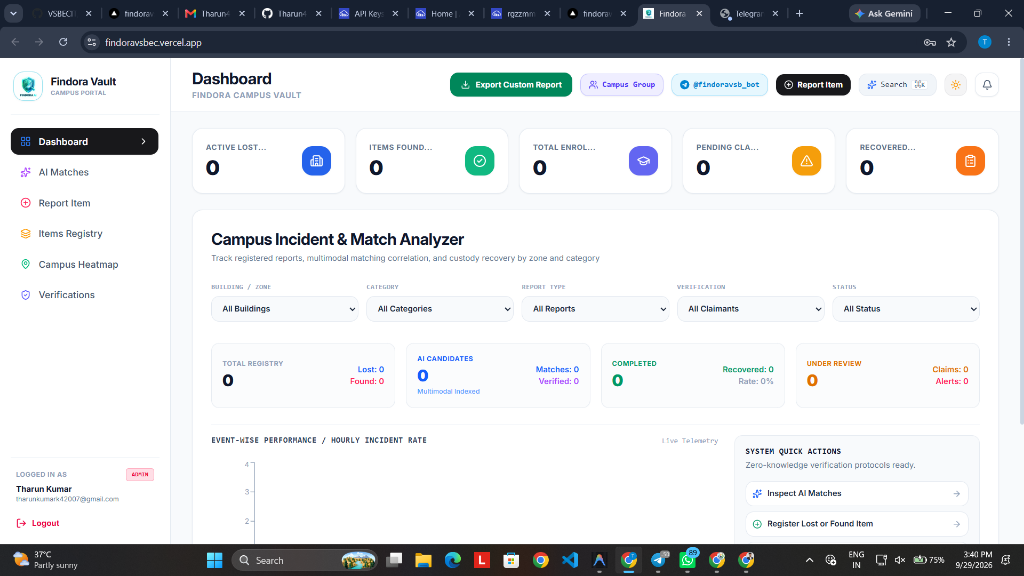
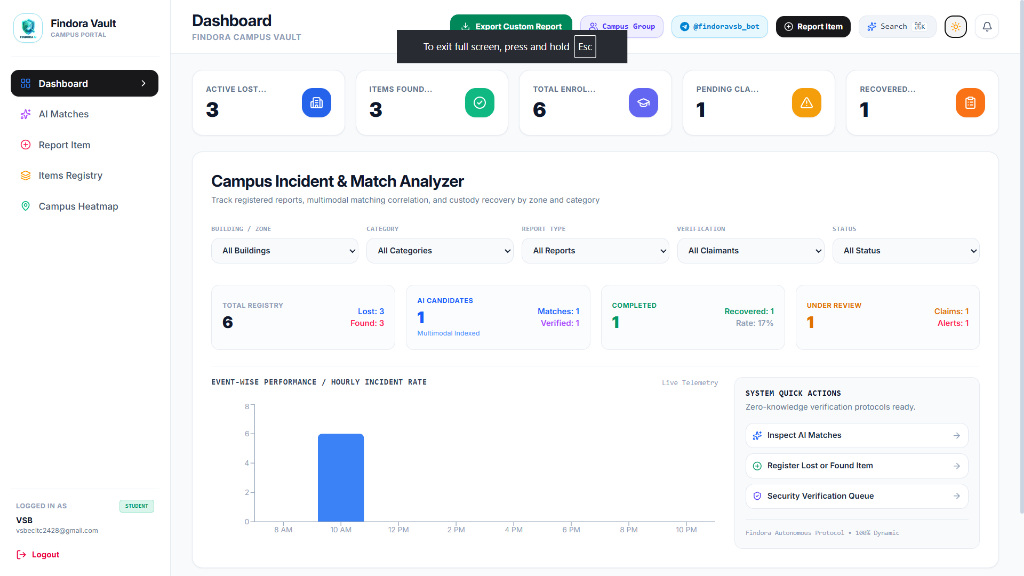
feat: update dashboard screenshot with live non-zero telemetry; fix: password_resets table and async reset flow

diff --git a/backend/routes/auth.js b/backend/routes/auth.js
@@ -204,7 +204,21 @@ router.post('/forgot-password', async (req, res) => {
     }
 
     const normalizedEmail = email.trim().toLowerCase();
-    const user = db.prepare('SELECT id, email, name FROM users WHERE LOWER(email) = ?').get(normalizedEmail);
+    let user = null;
+
+    if (db.pool) {
+      try {
+        const uRes = await db.pool.query('SELECT id, email, name FROM users WHERE LOWER(email) = $1', [normalizedEmail]);
+        if (uRes.rows && uRes.rows.length > 0) user = uRes.rows[0];
+      } catch (e) {}
+    }
+
+    if (!user) {
+      try {
+        user = db.prepare('SELECT id, email, name FROM users WHERE LOWER(email) = ?').get(normalizedEmail);
+      } catch (e) {}
+    }
+
     if (!user) {
       return res.status(404).json({ error: `No registered account found for ${normalizedEmail}. Please check spelling or create an account.` });
     }
@@ -212,12 +226,39 @@ router.post('/forgot-password', async (req, res) => {
     // Generate random 6-digit OTP code
     const otpCode = Math.floor(100000 + Math.random() * 900000).toString();
     const resetId = `rst_${Date.now()}`;
+    const expiresAt = new Date(Date.now() + 15 * 60 * 1000);
 
-    // Store in password_resets with 15-minute expiration
-    db.prepare(`
-      INSERT INTO password_resets (id, email, token, expires_at, used)
-      VALUES (?, ?, ?, datetime('now', '+15 minutes'), 0)
-    `).run(resetId, normalizedEmail, otpCode);
+    // Ensure table exists in Supabase and local DB
+    if (db.pool) {
+      try {
+        await db.pool.query(`
+          CREATE TABLE IF NOT EXISTS password_resets (
+            id TEXT PRIMARY KEY, email TEXT NOT NULL, token TEXT NOT NULL,
+            expires_at TIMESTAMP WITH TIME ZONE NOT NULL, used INTEGER DEFAULT 0,
+            created_at TIMESTAMP WITH TIME ZONE DEFAULT CURRENT_TIMESTAMP
+          )
+        `);
+        await db.pool.query(
+          'INSERT INTO password_resets (id, email, token, expires_at, used) VALUES ($1, $2, $3, $4, 0)',
+          [resetId, normalizedEmail, otpCode, expiresAt]
+        );
+      } catch (e) {
+        console.warn('[SUPABASE PASSWORD RESET ERROR]:', e.message);
+      }
+    }
+
+    try {
+      db.prepare(`
+        CREATE TABLE IF NOT EXISTS password_resets (
+          id TEXT PRIMARY KEY, email TEXT NOT NULL, token TEXT NOT NULL,
+          expires_at DATETIME NOT NULL, used INTEGER DEFAULT 0, created_at DATETIME DEFAULT CURRENT_TIMESTAMP
+        )
+      `).run();
+      db.prepare(`
+        INSERT INTO password_resets (id, email, token, expires_at, used)
+        VALUES (?, ?, ?, datetime('now', '+15 minutes'), 0)
+      `).run(resetId, normalizedEmail, otpCode);
+    } catch (e) {}
 
     console.log('\n======================================================');
     console.log(`🔐 [BREVO OTP GENERATED] For Account: ${normalizedEmail}`);
@@ -237,7 +278,7 @@ router.post('/forgot-password', async (req, res) => {
 });
 
 // 5. Reset Password using OTP code
-router.post('/reset-password', (req, res) => {
+router.post('/reset-password', async (req, res) => {
   try {
     const { email, code, newPassword } = req.body;
     if (!email || !code || !newPassword) {
@@ -249,22 +290,47 @@ router.post('/reset-password', (req, res) => {
     }
 
     const normalizedEmail = email.trim().toLowerCase();
-    const resetRecord = db.prepare(`
-      SELECT * FROM password_resets 
-      WHERE LOWER(email) = ? AND token = ? AND used = 0 AND expires_at > CURRENT_TIMESTAMP
-      ORDER BY created_at DESC LIMIT 1
-    `).get(normalizedEmail, code.trim());
+    let resetRecord = null;
+
+    if (db.pool) {
+      try {
+        const rRes = await db.pool.query(`
+          SELECT * FROM password_resets 
+          WHERE LOWER(email) = $1 AND token = $2 AND used = 0 AND expires_at > NOW()
+          ORDER BY created_at DESC LIMIT 1
+        `, [normalizedEmail, code.trim()]);
+        if (rRes.rows && rRes.rows.length > 0) resetRecord = rRes.rows[0];
+      } catch (e) {}
+    }
+
+    if (!resetRecord) {
+      try {
+        resetRecord = db.prepare(`
+          SELECT * FROM password_resets 
+          WHERE LOWER(email) = ? AND token = ? AND used = 0 AND expires_at > CURRENT_TIMESTAMP
+          ORDER BY created_at DESC LIMIT 1
+        `).get(normalizedEmail, code.trim());
+      } catch (e) {}
+    }
 
     if (!resetRecord) {
       return res.status(400).json({ error: 'Invalid or expired verification code. Please request a new code.' });
     }
 
-    // Hash new password and update user
+    // Hash new password and update user in Supabase and local DB
     const passwordHash = bcrypt.hashSync(newPassword, 8);
-    db.prepare('UPDATE users SET password_hash = ? WHERE LOWER(email) = ?').run(passwordHash, normalizedEmail);
 
-    // Mark reset record as used
-    db.prepare('UPDATE password_resets SET used = 1 WHERE id = ?').run(resetRecord.id);
+    if (db.pool) {
+      try {
+        await db.pool.query('UPDATE users SET password_hash = $1 WHERE LOWER(email) = $2', [passwordHash, normalizedEmail]);
+        await db.pool.query('UPDATE password_resets SET used = 1 WHERE id = $1', [resetRecord.id]);
+      } catch (e) {}
+    }
+
+    try {
+      db.prepare('UPDATE users SET password_hash = ? WHERE LOWER(email) = ?').run(passwordHash, normalizedEmail);
+      db.prepare('UPDATE password_resets SET used = 1 WHERE id = ?').run(resetRecord.id);
+    } catch (e) {}
 
     res.json({ message: 'Your password has been successfully reset. You can now log in.' });
   } catch (error) {

diff --git a/backend/database/schemaDefinition.js b/backend/database/schemaDefinition.js
@@ -206,4 +206,13 @@ CREATE TABLE IF NOT EXISTS telegram_groups (
     added_at DATETIME DEFAULT CURRENT_TIMESTAMP,
     updated_at DATETIME DEFAULT CURRENT_TIMESTAMP
 );
+
+CREATE TABLE IF NOT EXISTS password_resets (
+    id TEXT PRIMARY KEY,
+    email TEXT NOT NULL,
+    token TEXT NOT NULL,
+    expires_at DATETIME NOT NULL,
+    used INTEGER DEFAULT 0,
+    created_at DATETIME DEFAULT CURRENT_TIMESTAMP
+);
 `;
